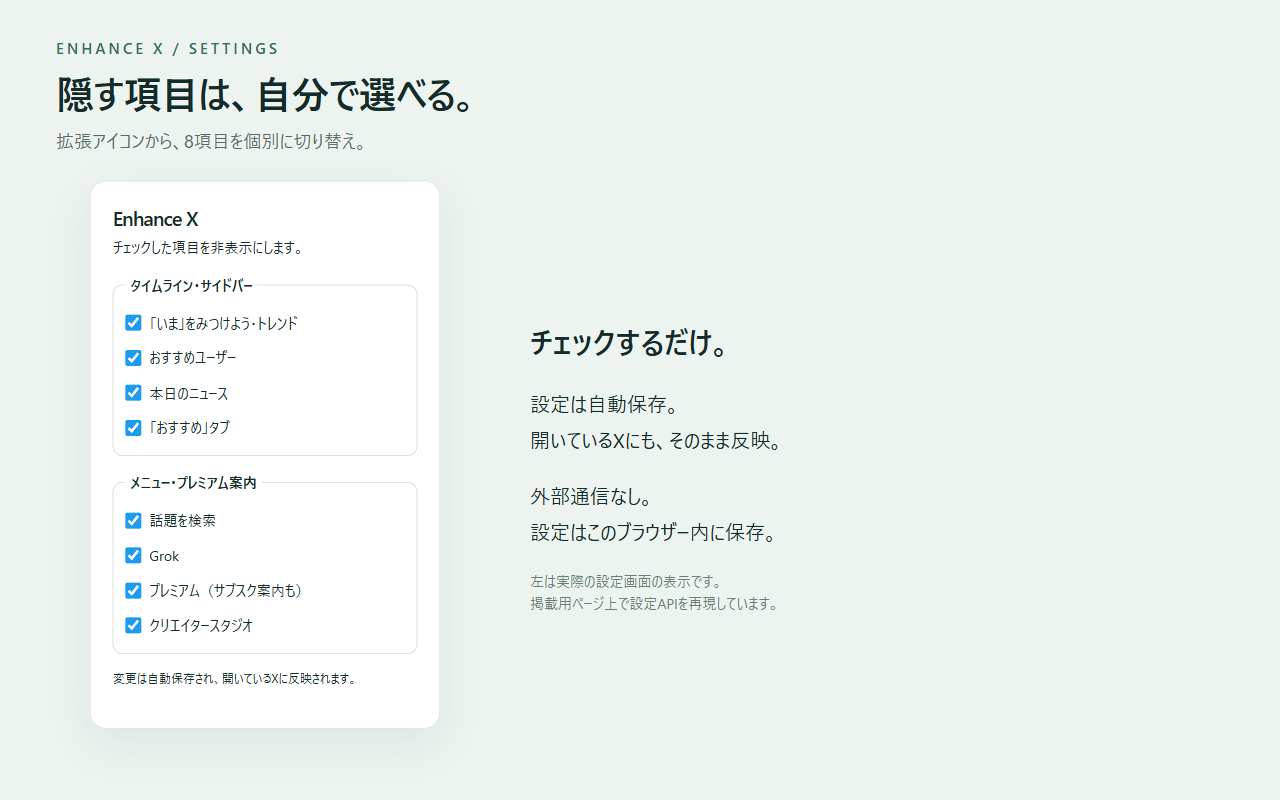
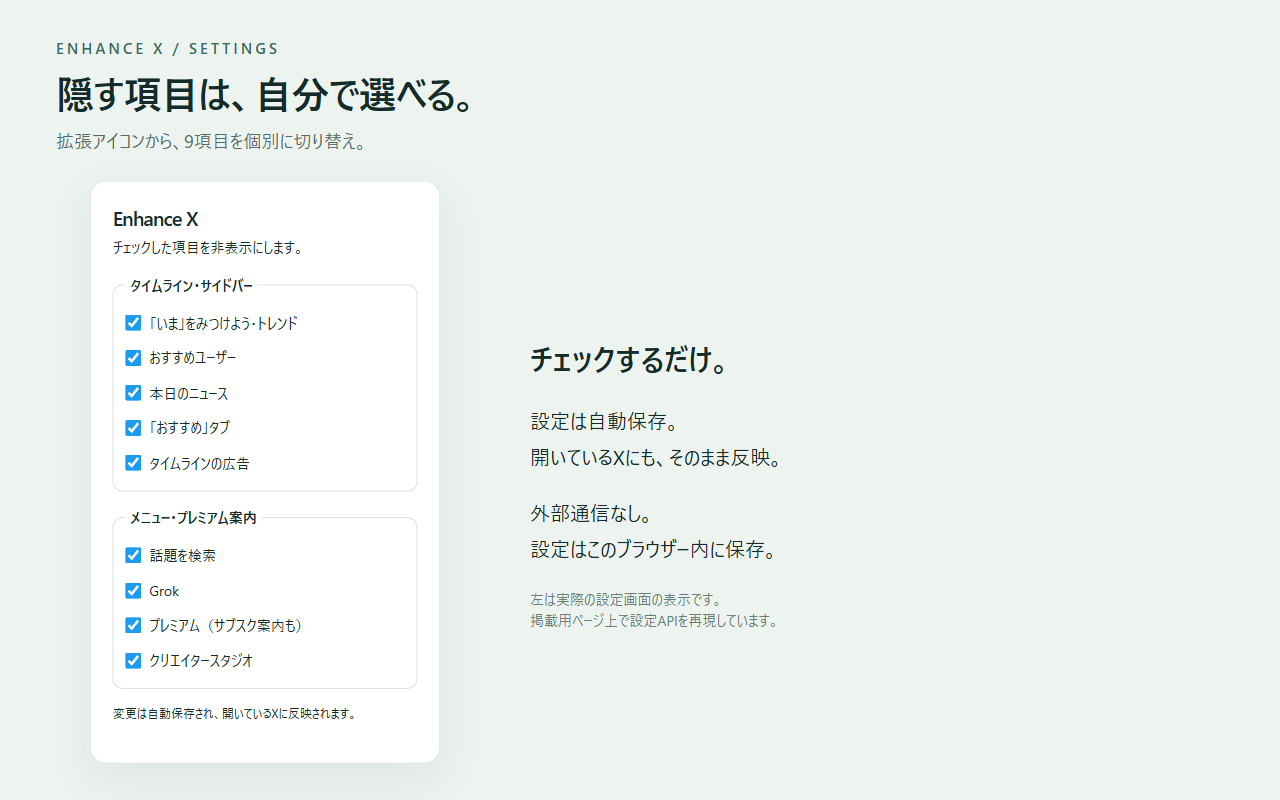
Add configurable timeline ad hiding and release 0.3.0

diff --git a/content.js b/content.js
@@ -100,6 +100,18 @@
     }
   }
 
+  function cleanAds() {
+    if (!settings.ads) return;
+    for (const tweet of document.querySelectorAll('[data-testid="primaryColumn"] [data-testid="tweet"]')) {
+      const cell = tweet.closest('[data-testid="cellInnerDiv"]');
+      const placement = tweet.closest('[data-testid="placementTracking"]');
+      // Ordinary videos also use placementTracking, but inside the tweet.
+      // Ads wrap the whole tweet and have impression pixels alongside it.
+      if (cell && placement && cell.contains(placement) &&
+          placement.querySelector('[data-testid="top-impression-pixel"]')) hide(cell);
+    }
+  }
+
   function cleanHomeTabs() {
     if (!settings.forYou) return;
     if (!/^\/home\/?$/.test(location.pathname)) return;
@@ -138,6 +150,7 @@
       }
       cleanHomeTabs();
       cleanNavigation();
+      cleanAds();
     });
   }
 

diff --git a/popup.html b/popup.html
@@ -17,6 +17,7 @@
     <label><input type="checkbox" name="users">おすすめユーザー</label>
     <label><input type="checkbox" name="news">本日のニュース</label>
     <label><input type="checkbox" name="forYou">「おすすめ」タブ</label>
+    <label><input type="checkbox" name="ads">タイムラインの広告</label>
   </fieldset>
   <fieldset disabled id="navigation">
     <legend>メニュー・プレミアム案内</legend>

diff --git a/settings.js b/settings.js
@@ -3,6 +3,7 @@ const ENHANCE_X_DEFAULTS = Object.freeze({
   users: true,
   news: true,
   forYou: true,
+  ads: true,
   explore: true,
   grok: true,
   premium: true,

diff --git a/store/listing-ja.md b/store/listing-ja.md
@@ -6,7 +6,7 @@ Enhance X
 
 ## 概要
 
-Xのおすすめ・ニュース・不要なメニューを非表示に。8項目を個別に切り替えて、見たいタイムラインに集中できます。
+Xのおすすめ・ニュース・不要なメニューを非表示に。9項目を個別に切り替えて、見たいタイムラインに集中できます。
 
 ## 詳細説明（以下を掲載欄へコピー）
 
@@ -14,10 +14,11 @@ Xのおすすめ・ニュース・不要なメニューを非表示に。8項目
 
 Enhance Xは、X（旧Twitter）のおすすめ欄や不要なメニューを非表示にする、シンプルな拡張機能です。
 
-■ 非表示にできる8項目
+■ 非表示にできる9項目
 ・「いま」をみつけようなどのトレンド欄
 ・おすすめユーザー
 ・本日のニュース
+・タイムラインの広告
 ・ホームの「おすすめ」タブ
 ・左メニューの「話題を検索」
 ・左メニューの「Grok」
@@ -31,6 +32,8 @@ Enhance Xは、X（旧Twitter）のおすすめ欄や不要なメニューを非
 
 ■ 端末内で動作
 外部通信やアクセス解析は行いません。保存するのは表示設定のみで、このブラウザー内に保存します。
+
+広告非表示は画面上の表示を隠す機能です。広告の通信そのものを停止する機能ではありません。
 
 ■ ご利用にあたって
 インストール後は、開いているXを一度再読み込みしてください。日本語・英語の見出しに対応しています。Xの画面構成の変更により、一部機能の調整が必要になる場合があります。

diff --git a/PRIVACY.md b/PRIVACY.md
@@ -1,6 +1,6 @@
 # Enhance X プライバシーポリシー
 
-最終更新日：2026年10月23日
+最終更新日：2026年10月27日
 
 Enhance Xは、X（旧Twitter）の不要な表示を利用者の設定に応じて非表示にする、非公式のChrome拡張機能です。
 
@@ -8,7 +8,7 @@ Enhance Xは、X（旧Twitter）の不要な表示を利用者の設定に応じ
 
 拡張機能は、非表示項目を判定するため、開いている `x.com` および `twitter.com` のページ内の見出し・リンク先・タブの選択状態などのDOM情報を端末内で参照します。これらの情報や投稿本文、アカウント情報、閲覧履歴を保存したり、開発者または第三者へ送信したりしません。パスワードやCookieを取得する処理はありません。
 
-保存する情報は、8項目それぞれの非表示設定（オン・オフ）のみです。Chromeの `storage.local` に保存し、表示の切り替えと設定の復元に使用します。拡張機能によるChromeアカウント経由の同期は行いません。
+保存する情報は、9項目それぞれの非表示設定（オン・オフ）のみです。Chromeの `storage.local` に保存し、表示の切り替えと設定の復元に使用します。拡張機能によるChromeアカウント経由の同期は行いません。
 
 ## 外部送信・共有
 
